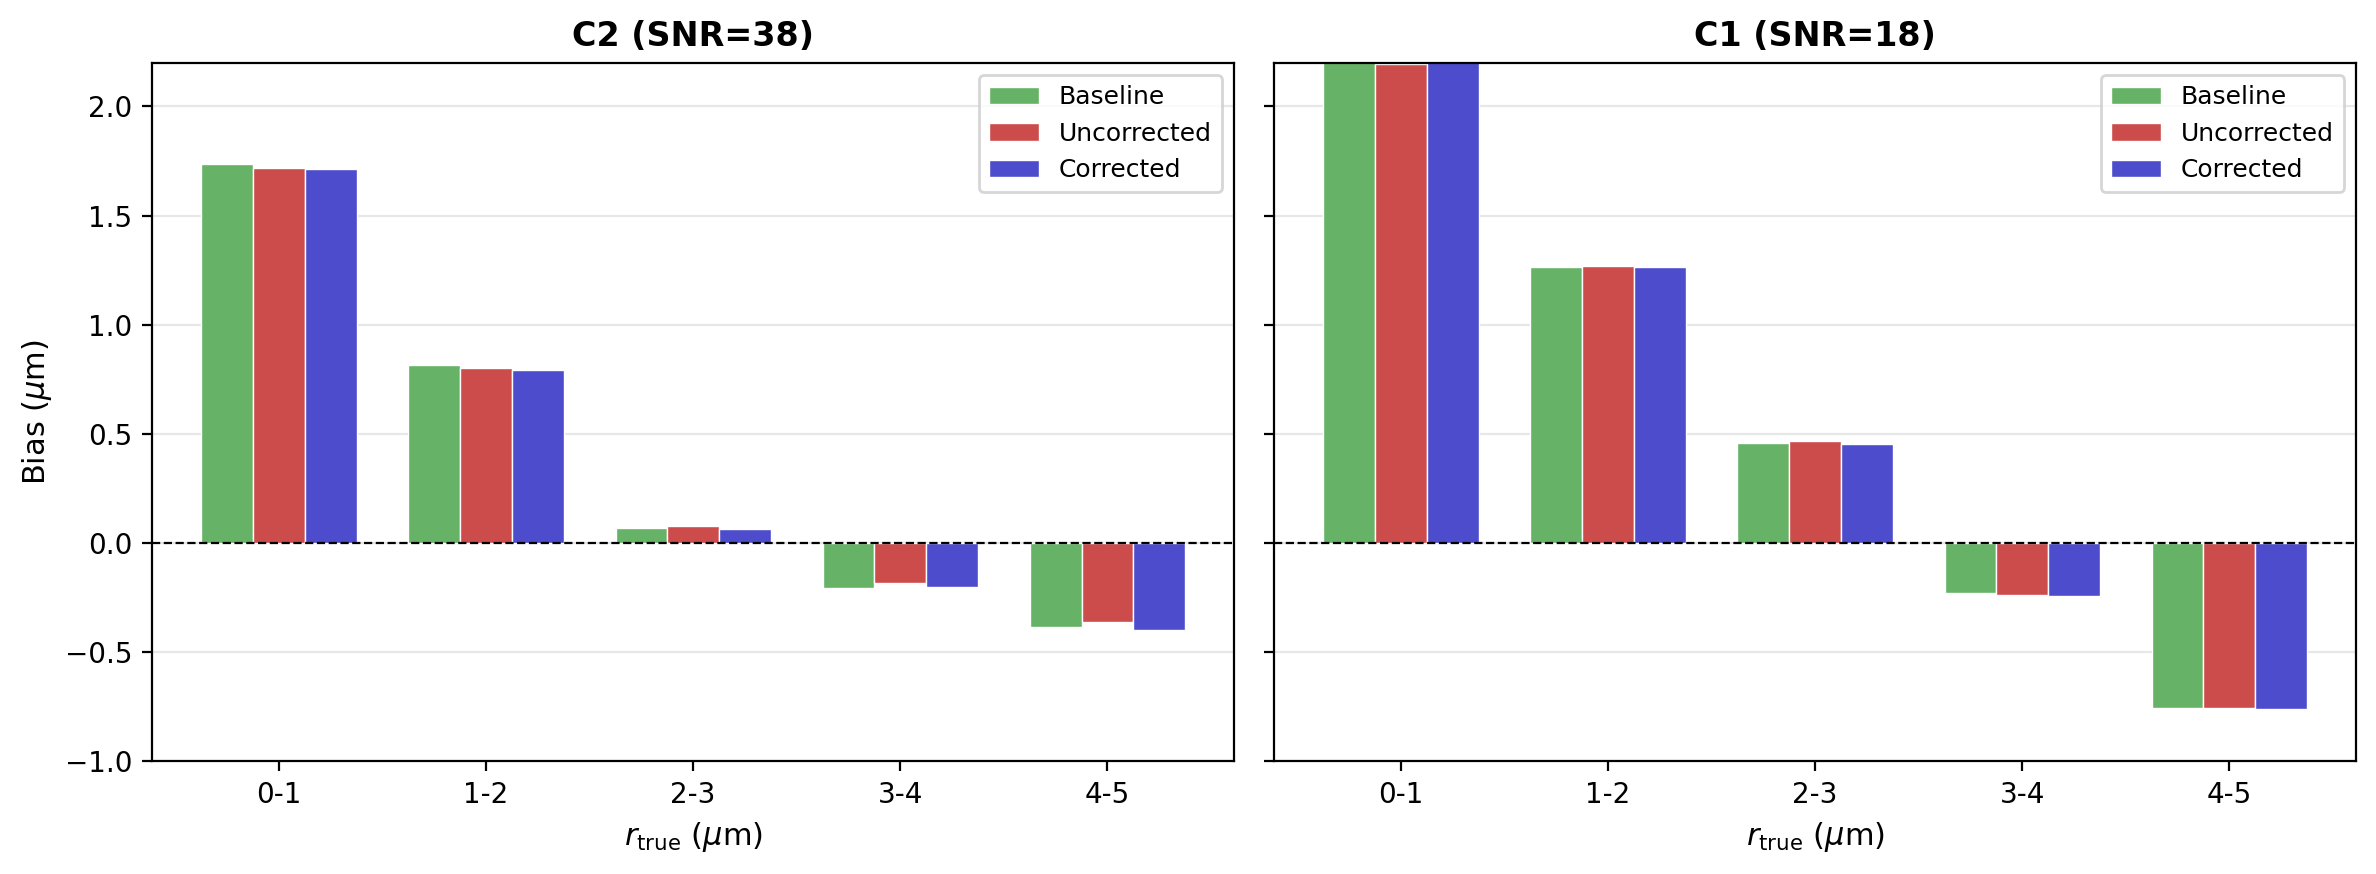
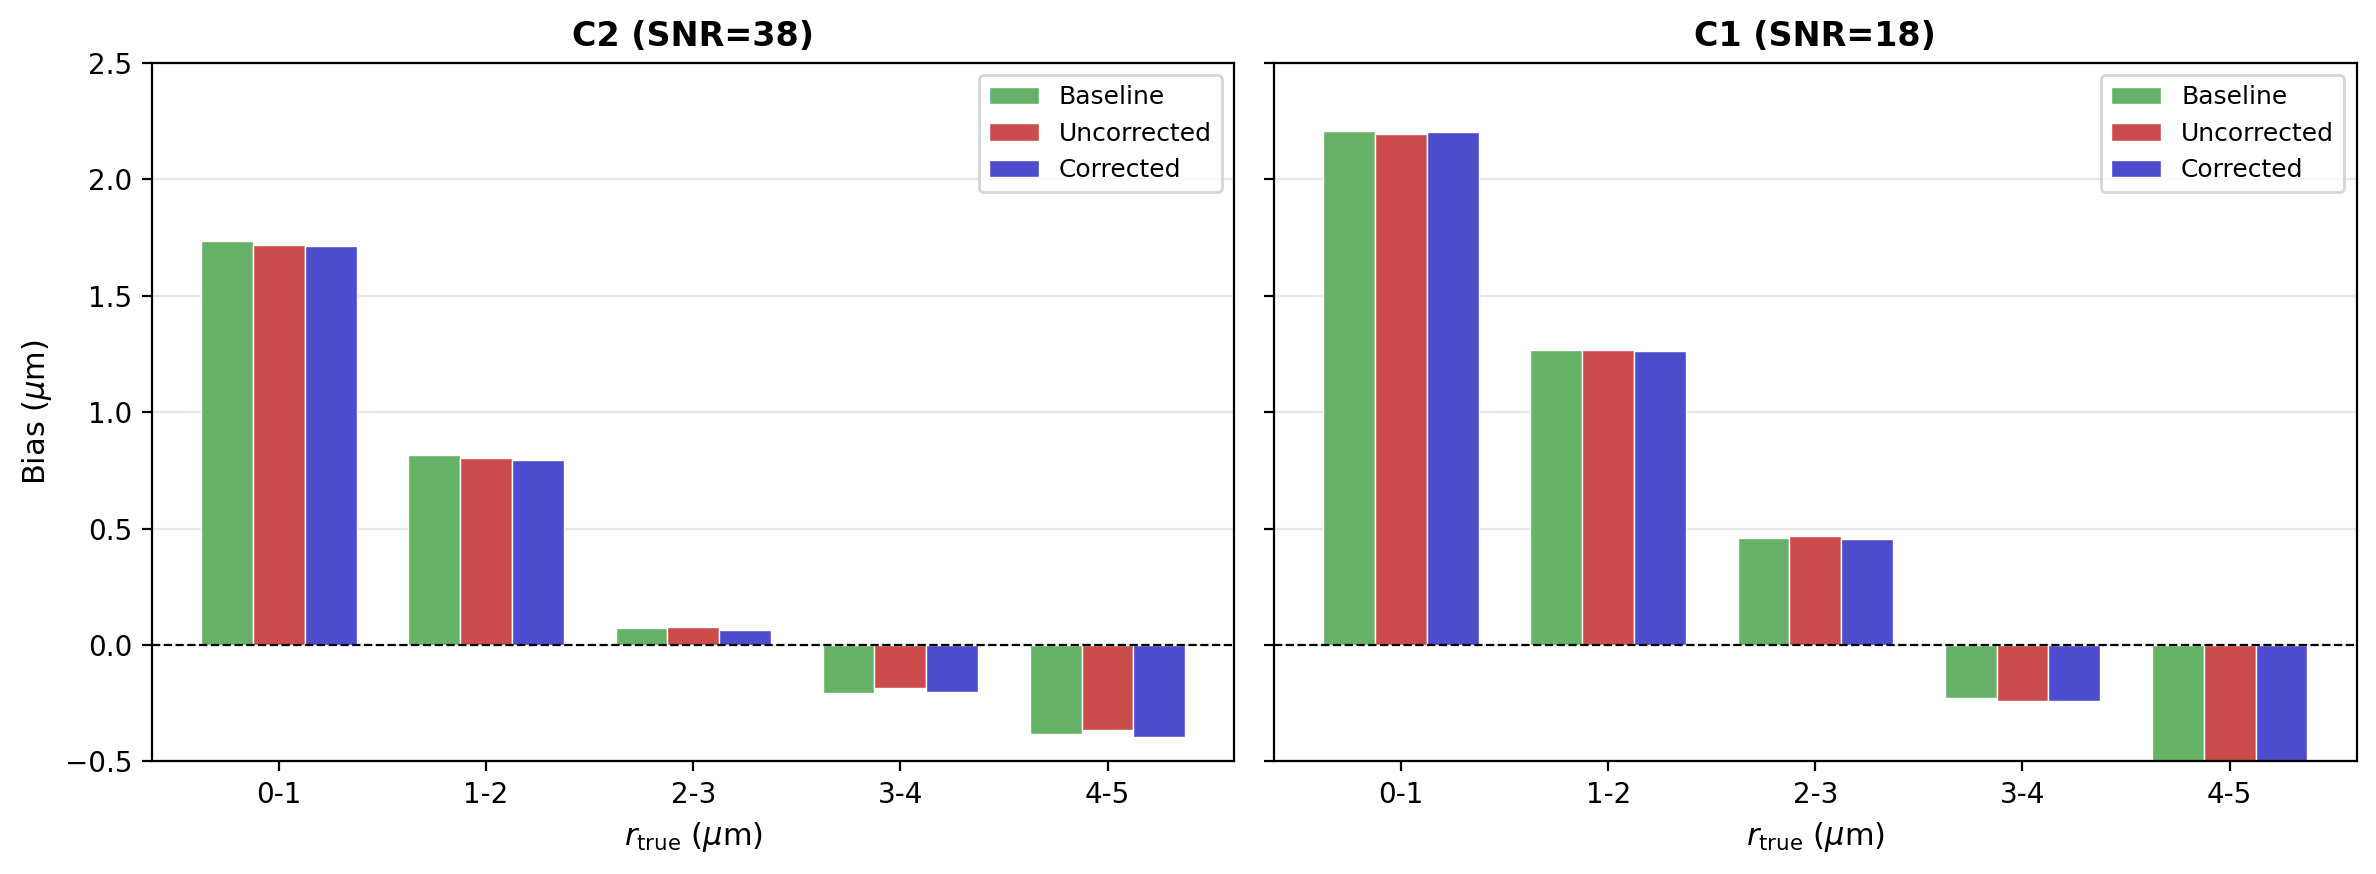
Set y-axis to [-0.5, 2.5] and remove N column from bias table

diff --git a/bvec_noise_propagation_analysis.md b/bvec_noise_propagation_analysis.md
@@ -67,18 +67,18 @@ All fitting uses `AxCaliberSMT.mcmc` from the C2 protocol design library (Lee et
 
 For both C2 and C1, the three scenarios (Baseline, Uncorrected, Corrected) produce nearly overlapping bars at every radius bin.
 
-| Protocol | r (um) | N | Baseline | Uncorrected | Corrected |
-|----------|:---:|:---:|:---:|:---:|:---:|
-| C2 | 0-1 | 105 | +1.736 | +1.717 | +1.711 |
-| C2 | 1-2 | 149 | +0.815 | +0.803 | +0.792 |
-| C2 | 2-3 | 207 | +0.071 | +0.079 | +0.066 |
-| C2 | 3-4 | 317 | -0.208 | -0.183 | -0.202 |
-| C2 | 4-5 | 294 | -0.383 | -0.363 | -0.396 |
-| C1 | 0-1 | 82 | +2.209 | +2.194 | +2.201 |
-| C1 | 1-2 | 112 | +1.266 | +1.268 | +1.264 |
-| C1 | 2-3 | 120 | +0.459 | +0.469 | +0.454 |
-| C1 | 3-4 | 200 | -0.227 | -0.239 | -0.242 |
-| C1 | 4-5 | 222 | -0.755 | -0.755 | -0.761 |
+| Protocol | r (um) | Baseline | Uncorrected | Corrected |
+|----------|:---:|:---:|:---:|:---:|
+| C2 | 0-1 | +1.736 | +1.717 | +1.711 |
+| C2 | 1-2 | +0.815 | +0.803 | +0.792 |
+| C2 | 2-3 | +0.071 | +0.079 | +0.066 |
+| C2 | 3-4 | -0.208 | -0.183 | -0.202 |
+| C2 | 4-5 | -0.383 | -0.363 | -0.396 |
+| C1 | 0-1 | +2.209 | +2.194 | +2.201 |
+| C1 | 1-2 | +1.266 | +1.268 | +1.264 |
+| C1 | 2-3 | +0.459 | +0.469 | +0.454 |
+| C1 | 3-4 | -0.227 | -0.239 | -0.242 |
+| C1 | 4-5 | -0.755 | -0.755 | -0.761 |
 
 | Protocol | | Baseline | Uncorrected | Corrected |
 |----------|------|:---:|:---:|:---:|
